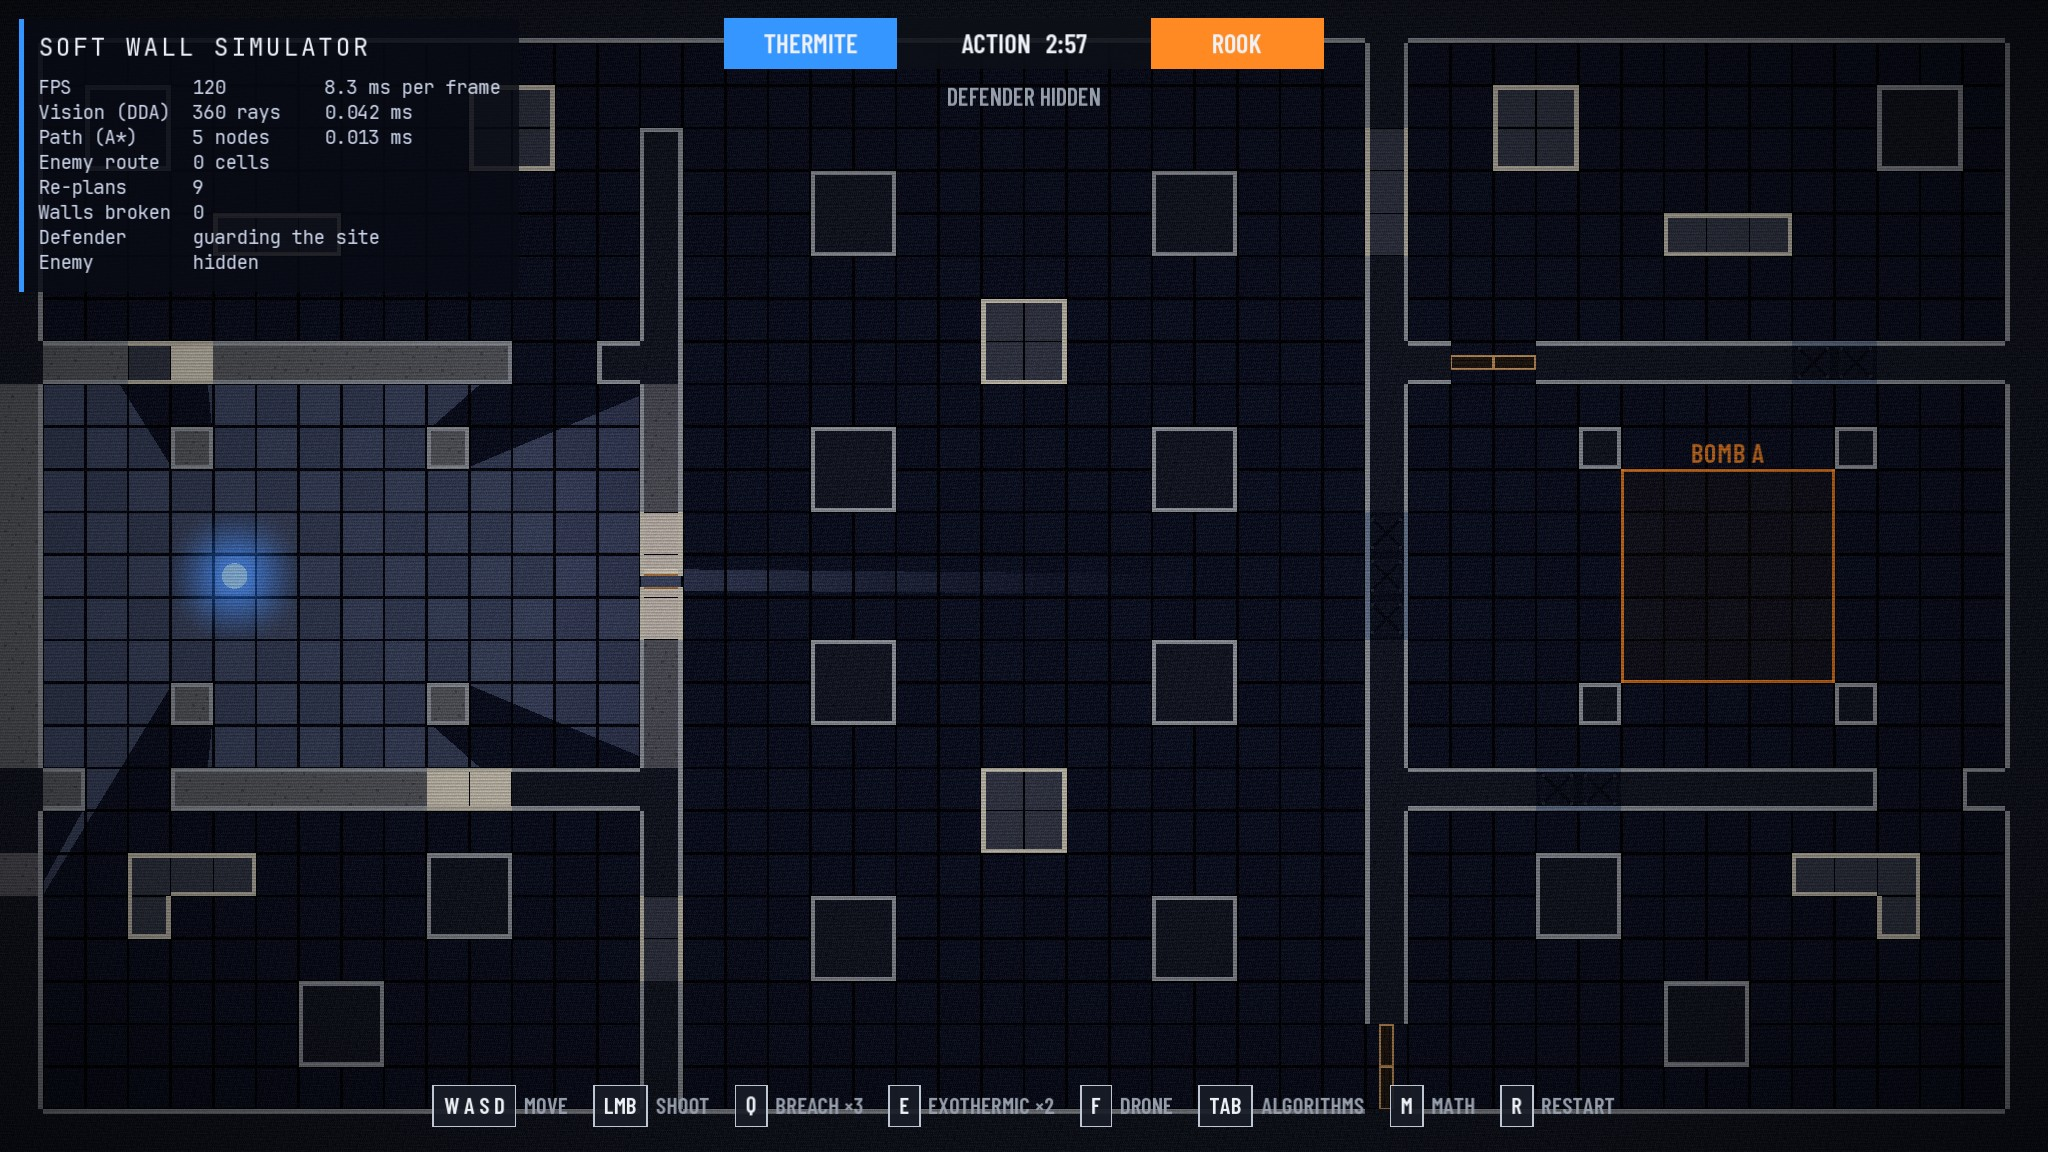
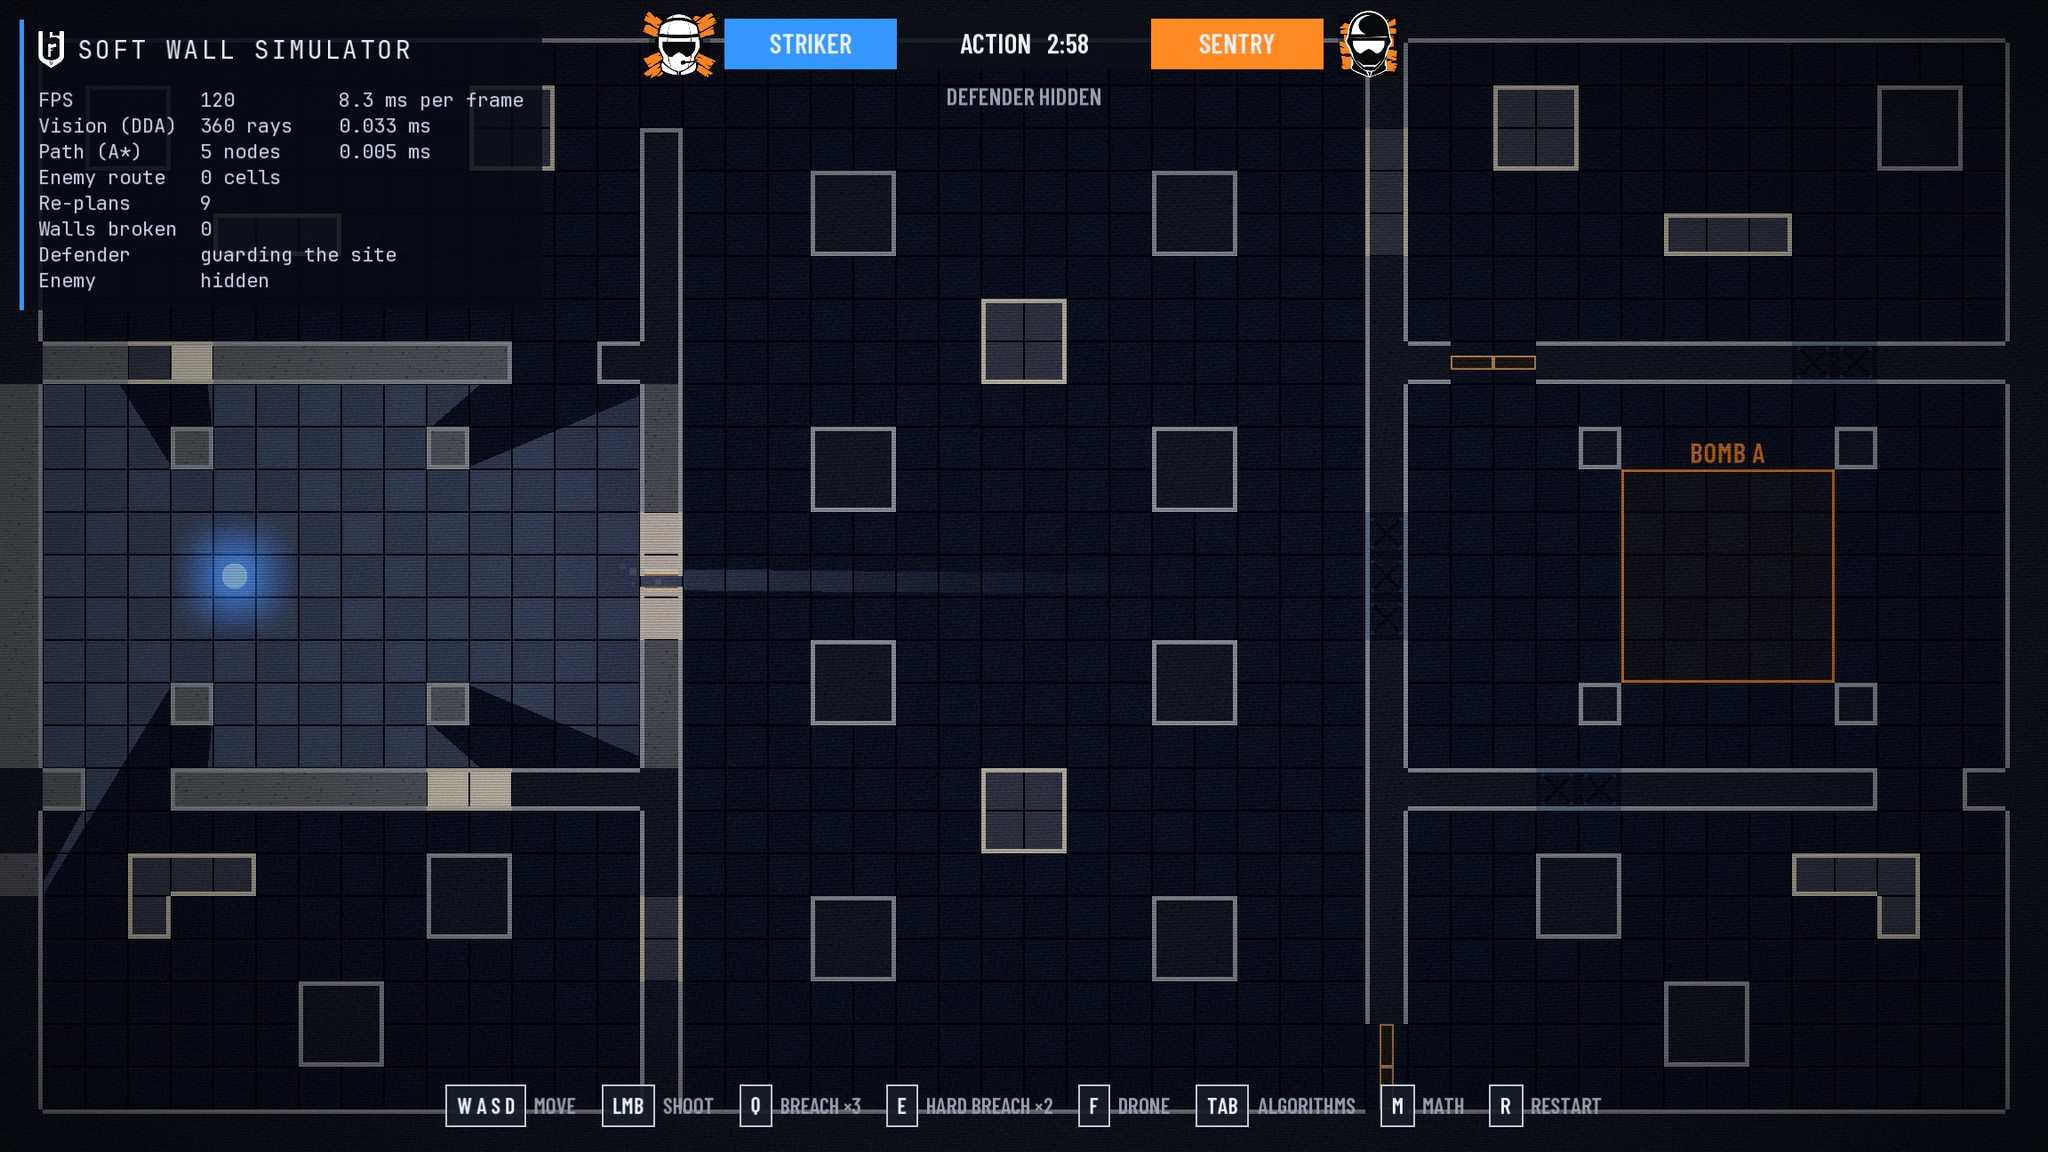
Update the README and screenshots for Striker and Sentry

diff --git a/README.md b/README.md
@@ -1,26 +1,26 @@
 # Soft Wall Simulator
 
 A 2D, top-down round of Rainbow Six Siege's bomb mode in C++17 and SFML 3, built without an engine.
-You play Thermite, the attacker. An AI Rook defends bomb site A.
-During preparation, Rook reinforces walls with steel while you drone the building.
-In the action phase you open a route with bullets, breach charges, and exothermic charges, then plant the defuser.
-Underneath, 360 DDA rays light the map through every hole, and Rook's A\* path re-plans the instant a wall breaks.
+You play Striker, the attacker. An AI Sentry defends bomb site A.
+During preparation, Sentry reinforces walls with steel while you drone the building.
+In the action phase you open a route with bullets, breach charges, and hard breach charges, then plant the defuser.
+Underneath, 360 DDA rays light the map through every hole, and Sentry's A\* path re-plans the instant a wall breaks.
 Press **M** to see the math behind all of it, with the real numbers the code computed.
 
-![The action phase: a bullet slot in the drywall throws a beam across the hall onto Rook's reinforced steel](docs/gameplay.jpg)
+![The action phase: a bullet slot in the drywall throws a beam across the hall onto Sentry's reinforced steel](docs/gameplay.jpg)
 
 ## How a round plays
 
-1. **Preparation, 0:20.** Rook walks to each planned wall and reinforces it. You wait at spawn. Press F to drive a drone; it rolls under barricades, and whatever it sees is spotted, marked in orange through walls.
+1. **Preparation, 0:20.** Sentry walks to each planned wall and reinforces it. You wait at spawn. Press F to drive a drone; it rolls under barricades, and whatever it sees is spotted, marked in orange through walls.
 2. **Action, 3:00.** Open a way in:
    - Shoot drywall to drill a slot you can see through, or break it with three hits.
    - Break a barricade with one shot.
    - Stick a breach charge (Q) on drywall or a barricade to blow it open, along with its drywall neighbors.
-   - Stick an exothermic charge (E) on reinforced steel to burn through it.
-3. **The defender.** The AI Rook guards the site until it sees you. Then it hunts you, re-planning its route through every new hole the moment the hole opens.
-4. **The end.** Stand inside bomb site A for 4 seconds to plant the defuser and win. If Rook reaches you, or the clock runs out, the defenders win. Press R for the next round.
+   - Stick a hard breach charge (E) on reinforced steel to burn through it.
+3. **The defender.** The AI Sentry guards the site until it sees you. Then it hunts you, re-planning its route through every new hole the moment the hole opens.
+4. **The end.** Stand inside bomb site A for 4 seconds to plant the defuser and win. If Sentry reaches you, or the clock runs out, the defenders win. Press R for the next round.
 
-![The preparation phase: Rook plates the walls around bomb site A while the barricades hold the doorways](docs/preparation.jpg)
+![The preparation phase: Sentry plates the walls around bomb site A while the barricades hold the doorways](docs/preparation.jpg)
 
 ## Highlights
 
@@ -30,8 +30,8 @@ Press **M** to see the math behind all of it, with the real numbers the code com
 - **The visibility polygon is the light.** Each light's ray hits form a triangle fan. The fans are added into a light map with a radial gradient, and the light map is multiplied over the scene.
 - **A\* pathfinding.** Moves go in 8 directions with integer costs of 10 and 14 and never cut a wall's corner. The search uses the octile heuristic, a binary heap, and flat per-cell arrays that are reused across searches.
 - **A defender with goals.** A small state machine (preparing, guarding, hunting) gives A\* different goals: the floor beside the next wall to reinforce, the site's guard points, then you. Every tile change re-plans the current goal in the same call.
-- **Siege rules.** Reinforcement, exothermic and breach charges with fuses, barricades, a drone, spotting, a bomb site, and a round clock with preparation and action phases.
-- **Siege look.** Drywall over wooden studs, concrete, braced steel plates, and plank barricades. The attacker is blue and the defender orange, and a shader adds drone-camera grain, scanlines, and a vignette.
+- **Siege rules.** Reinforcement, breach and hard breach charges with fuses, barricades, a drone, spotting, a bomb site, and a round clock with preparation and action phases.
+- **Siege look.** Drywall over wooden studs, concrete, braced steel plates, and plank barricades. The attacker is blue and the defender orange, and a shader adds drone-camera grain, scanlines, and a vignette. The banner and the result screen show the official Striker and Sentry operator icons, and the Rainbow Six emblem heads the panel. The art comes from Ubisoft's official fan kits.
 - **Math view (M).** Every cell A\* expanded shows g, h, and f, with an arrow to its parent. The ray toward the cursor is traced step by step, with a table of tMaxX, tMaxY, tDeltaX, and tDeltaY. The hovered cell shows its index, its byte offset, and the octile formula worked with its own numbers. [docs/MATH.md](docs/MATH.md) derives every formula.
 - **Algorithm view (Tab).** It shows the 360 rays, the polygon outline, the cells A\* expanded colored by expansion order, and the defender's live path.
 - **Headless tests.** The simulation layer contains no rendering code, so its 32 tests run without a window, including two full rounds.
@@ -48,8 +48,8 @@ The longest A\* search measured, 656 cells across the whole map, took about 0.2 
 | W A S D | Move. While the drone is active, drive it instead. |
 | Left click | Shoot the wall under the cursor. Each hit on drywall drills a slot along your line of fire, and the third hit breaks it. One hit breaks a barricade. Concrete and steel never break. |
 | Q | Breach charge on the wall under the cursor. You carry 3. The wall must touch your cell. |
-| E | Exothermic charge on the wall under the cursor. You carry 2. Only this opens reinforced steel. |
-| F | Deploy the drone, or switch between it and Thermite. |
+| E | Hard breach charge on the wall under the cursor. You carry 2. Only this opens reinforced steel. |
+| F | Deploy the drone, or switch between it and Striker. |
 | Tab | Toggle the algorithm view. |
 | M | Toggle the math view. Point the cursor at anything to see its numbers. |
 | R | Start the round over. |
@@ -99,7 +99,7 @@ src/
     MathView                The M view.
     TextBatch               Draws hundreds of labels in one draw call.
     StatisticsPanel         Live numbers.
-    HeadsUpDisplay          Operator banner, round clock, status, results, key prompts.
+    HeadsUpDisplay          Operator banner with the operator icons, round clock, status, results, key prompts.
 tests/
   SimulationTests.cpp       Framework-free tests that print PASS or FAIL.
 docs/
@@ -109,10 +109,10 @@ docs/
 Each frame runs in this order:
 
 1. Handle events. A click calls `World::damageTileAt`; Q and E call `World::placeCharge`.
-2. Update the world: move Thermite or the drone, burn the fuses, run the defender, cast the rays, update spotting and the round.
+2. Update the world: move Striker or the drone, burn the fuses, run the defender, cast the rays, update spotting and the round.
 3. Rebuild the wall vertices if any tile changed, and start the effects for detonations and reinforcements.
 4. Draw the floor, the dust and splinters, and the wall bodies into the scene texture, then multiply the light map over them.
-5. Draw what must stay visible in the dark: outlines, the bomb site, flashes, gadgets, the defender (when in sight), Thermite, and sparks.
+5. Draw what must stay visible in the dark: outlines, the bomb site, flashes, gadgets, the defender (when in sight), Striker, and sparks.
 6. Copy the scene to the window through the drone-camera shader.
 7. Draw the math view, the statistics panel, and the banner on top, where the shader cannot blur them.
 
@@ -162,13 +162,13 @@ The defender is a state machine that only changes A\*'s goal:
 
 - **Preparing.** For each planned wall, the defender searches to every open side and walks to the closest. It stands there for 1.2 seconds, and the wall turns to steel.
 - **Guarding.** It walks between the site's guard points and pauses at each.
-- **Hunting.** The moment it has line of sight to Thermite during the action phase, it chases. It re-plans whenever Thermite changes cell or any tile changes, and it wins the round on contact.
+- **Hunting.** The moment it has line of sight to Striker during the action phase, it chases. It re-plans whenever Striker changes cell or any tile changes, and it wins the round on contact.
 
 ### Destruction and charges
 
 A click maps from pixel to world through the same view the frame was drawn with, so it stays accurate during screen shake.
 `std::floor`, not a cast, maps world to cell, so a click left of the map never lands in column 0.
-A charge goes on a wall that touches Thermite's cell and burns down its fuse: 1.5 seconds for a breach charge, 3 for an exothermic one.
+A charge goes on a wall that touches Striker's cell and burns down its fuse: 1.5 seconds for a breach charge, 3 for a hard breach charge.
 It then opens its wall and every neighbor, up, down, left, and right, that the same charge could open.
 Every tile it opens is reported once, and the defender re-plans once for the whole blast.
 
@@ -197,7 +197,7 @@ PASS  End to end: the DDA trace agrees with line of sight, before and after a bu
 PASS  End to end: along the enemy's route, each step adds its own cost to g
 PASS  Reinforcing turns drywall into steel that blocks walking and vision
 PASS  Bullets cannot open a reinforced wall
-PASS  An exothermic charge burns through a reinforced wall after its 3-second fuse
+PASS  A hard breach charge burns through a reinforced wall after its 3-second fuse
 PASS  A breach charge opens a soft wall and its soft neighbors, but not steel
 PASS  A barricade blocks the doorway and breaks in one shot
 PASS  The drone is faster than the attacker and casts its own 360 rays
@@ -207,7 +207,7 @@ PASS  The defender reinforces its planned walls during preparation
 PASS  When the action phase runs out, the defenders win
 PASS  When the defender reaches the attacker, the defenders win
 PASS  The defender guards the site until it spots the attacker, then hunts
-PASS  End to end: the defender reinforces, Thermite burns through, and the defender hunts through the breach
+PASS  End to end: the defender reinforces, the attacker hard-breaches, and the defender hunts through the breach
 PASS  End to end: the attacker breaks a barricade, holds the site, and wins
 
 32 passed, 0 failed
@@ -220,7 +220,7 @@ Levels without a bomb site run in free play: no clock, and the defender hunts fr
 ## Engineering choices
 
 - **Warnings are errors.** Project targets build at `/W4 /permissive-` on MSVC and `-Wall -Wextra -Wpedantic` elsewhere. SFML is included as a system dependency, so its headers do not trip these warnings.
-- **No manual memory management.** There is no `new` or `delete`. Containers and SFML objects own every resource. Classes whose texts point at a member font delete their copy operations.
+- **No manual memory management.** There is no `new` or `delete`. Containers and SFML objects own every resource. Classes whose texts or sprites point at a member font or texture delete their copy operations.
 - **Buffers are reused in hot paths.** Rays, the light map, particles, and the algorithm view keep their buffers between frames. A\* reuses its per-cell arrays, so only the returned path allocates.
 - **Batched drawing.** Each layer of the map is one vertex array. `TextBatch` packs labels into one vertex array over the font's glyph texture, so hundreds of A\* numbers cost two draw calls, one per text size, instead of one per label.
 - **One revision counter.** The grid counts every tile change, so the renderer rebuilds walls once per frame no matter what changed them: a shot, a charge, or a reinforcement.
@@ -231,4 +231,5 @@ Levels without a bomb site run in free play: no clock, and the defender hunts fr
 
 - [SFML 3.0.2](https://www.sfml-dev.org/) under the zlib license, downloaded at configure time.
 - [JetBrains Mono](https://www.jetbrains.com/lp/mono/) and [Barlow Condensed](https://github.com/jpt/barlow) under the SIL Open Font License 1.1. The fonts and their licenses are in `assets/fonts/`.
-- Rainbow Six Siege, Thermite, Rook, and the gadget names belong to Ubisoft. This fan project uses no Ubisoft art, logos, or sounds, and it is not affiliated with or endorsed by Ubisoft.
+- The Striker and Sentry operator icons and the Rainbow Six Siege emblem in `assets/siege/` come from Ubisoft's official Rainbow Six Siege fan kits. `assets/siege/CREDITS.txt` names the kit each file came from.
+- Rainbow Six Siege, its logos, its operators, and the gadget names are trademarks of Ubisoft Entertainment. This is a non-commercial fan project. It is not affiliated with, sponsored by, or endorsed by Ubisoft.
